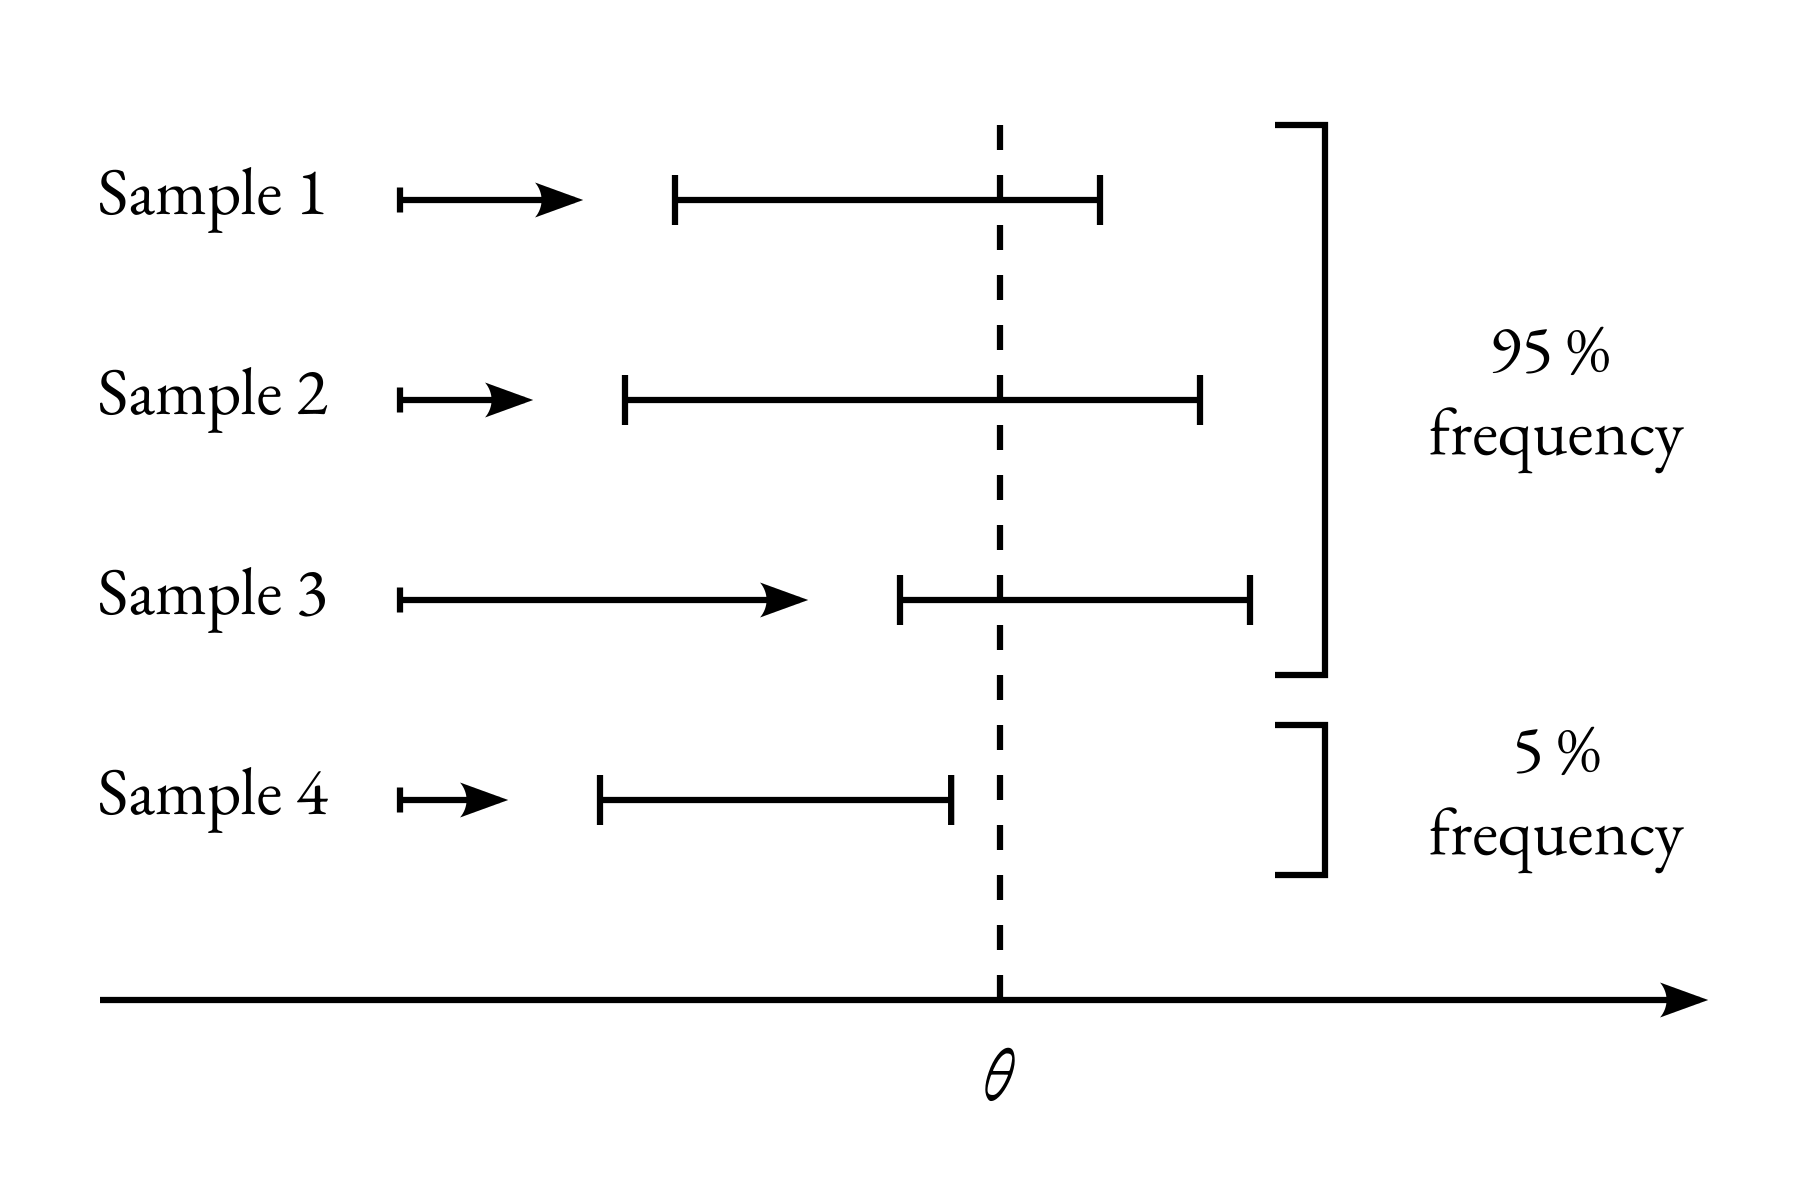
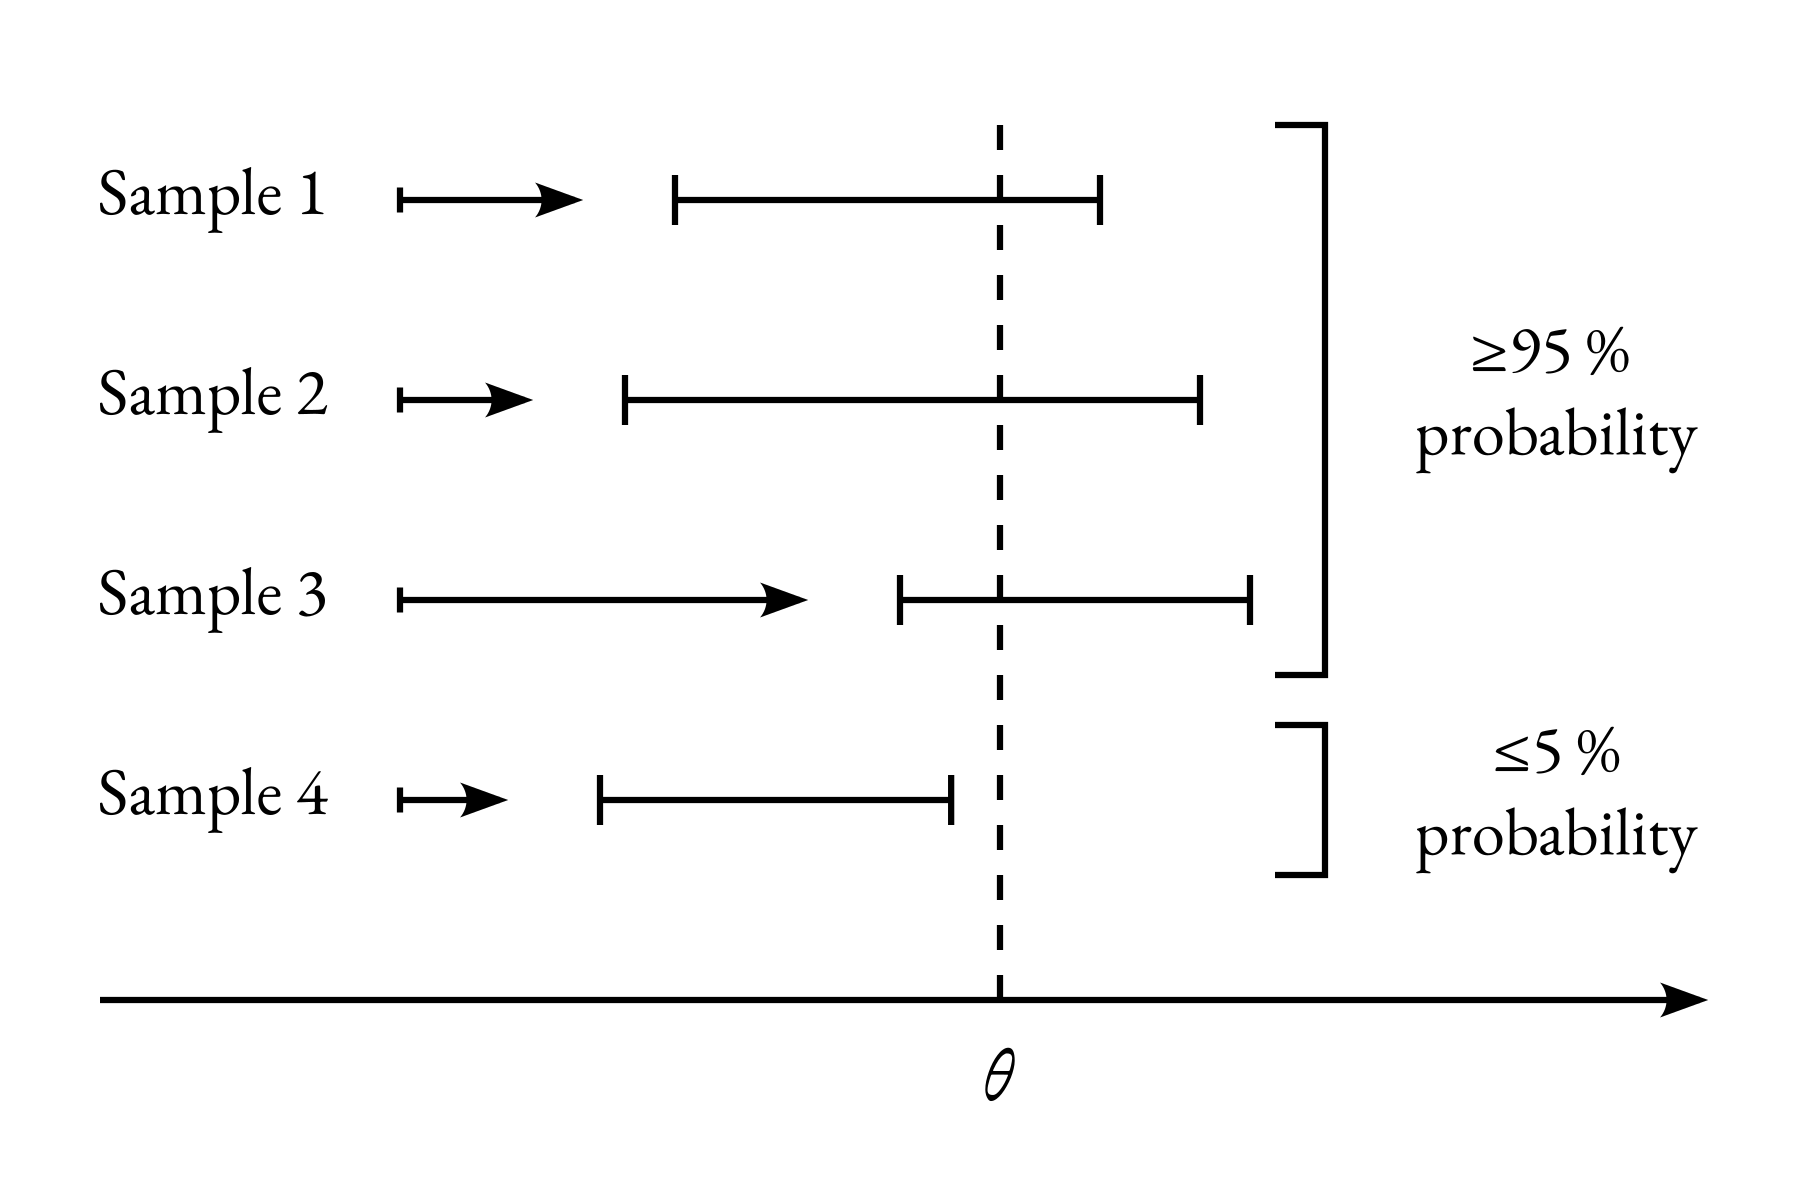
WIP confidence intervals

diff --git a/pages/confidence_intervals/index.md b/pages/confidence_intervals/index.md
@@ -6,53 +6,39 @@ title: Confidence intervals
 
 ## Definition
 
-Let's say we have collected some observations $$x$$, for example a few die rolls:
-$$x = (1, 3, 3, 6)$$. Supposedly, these observation are distributed according to
-some parametric model with unknown parameters $$\theta$$. In the case of the die
-roll, the model could be the categorical distribution, whose parameters are the
-probabilities of each category: $$\theta = (p_1, \ldots, p_6)$$. Based on our
-observations, we would like to establish some region of parameter space within
-which $$\theta$$ most likely lies.
+An $$\alpha$$-confidence interval for a parameter $$\theta$$ may be defined
+concisely as <q>an interval which covers the true value of $$\theta$$ with
+probability $$\geq\alpha$$</q>. However, this definition is ambiguous without
+a description of the precise mechanism implied by the word probability.
 
+The mechanism is illustrated in the diagram below, with $$\alpha = 0.95$$. The
+confidence interval is really an interval-valued function, that maps a sample
+$$(x_1, x_2, \ldots, x_n)$$ drawn from the population of interest, to an
+interval. If another sample is drawn, the associated confidence interval is
+usually different. For some samples, the interval covers the parameter
+$$\theta$$, and for other samples it does not. However, the confidence interval
+function is constructed in such a way that, upon repeated sampling from the
+population, the associated intervals cover the parameter $$\theta$$ with
+probability $$\geq \alpha$$.
 <figure>
 <img src='coverage_diagram.png' alt='Diagram of interval coverage' style='max-width:6in' />
 </figure>
 
-More precisely, we want to define a function $$J$$ that associates to any
-possible observation $$x$$ a region $$J(x)$$ of parameter space such that
-<q>most likely</q> $$\theta \in J(x)$$. To give a precise meaning to <q>most
-likely</q>, we must first define the notion of _coverage_. The coverage
-$$Q(J, \theta)$$ of $$J$$ given $$\theta$$ is the probability, for any given
-$$\theta$$, that the interval $$J$$ covers $$\theta$$:
+Importantly, the coverage probability must be $$\geq \alpha$$  <em> regardless
+of the value of the parameter $$\theta$$ </em>.
 
-\begin{equation}
-    Q(J, \theta) \equiv \sum_{x} p(x|\theta) I(\theta \in J(x))\,.
-\end{equation}
+Of course, one way to ensure coverage $$\geq \alpha$$ is to associate a very
+large interval to each sample. In the extreme, if the associated intervals
+always cover all possible values of the parameter, the coverage will be 1. But
+these would not be very useful intervals. The name of the game is to construct
+intervals with coverage as close as possible to the level $$\alpha$$, without
+going under.
 
-Here $$p(x|\theta)$$ is the probability of each observation $$x$$ given $$\theta$$,
-and $$I(P)$$ is the indicator function, which is 1 if the predicate $$P$$ is true,
-and 0 if it is false.
 
-A variation of $$J$$ that associates smaller regions to each observation yields a
-coverage closer to 0, and conversely, a tweak towards larger regions yields a
-coverage closer to 1. In the extreme, if $$J$$ yields the full parameter space
-for all observations, the coverage is exactly 1. Ideally, we would like a
-function $$J_\gamma$$ that gives the smallest possible regions, while preserving
-at least a  prescribed minimum coverage $$\gamma \in(0, 1)$$. And crucially, we
-would like $$J_\gamma$$ to do so _regardless_ of the true value of $$\theta$$:
-
-\begin{equation}
-    J_\gamma\quad |\quad \forall\, \theta \quad Q(J_\gamma, \theta) \geq \gamma
-\end{equation}
-
-This set of requirements is such a tall order that it is worth repeating: the
-function $$J_\gamma$$ is expected to yield the smallest possible regions of
-parameters space, while maintaning a minimum coverage, regardless of the
-unknown true values of the parameters, just based on the observation $$x$$.
-
-The region of parameter space that such a function associates to a given
-observation $$x$$ is called _confidence interval_ at the confidence level
-$$\gamma$$.
+In some cases, it is possible to construct confidence intervals with coverage
+exactly equal to the confidence level. This is the case for the normal
+population example below, but it is not always possible, and it is never
+possible for distributions with discrete domain.
 
 The minimum coverage reqirement for $$J$$ is so strong, that it often forces
 $$J_\gamma$$ to yield very conservative (large) regions, just to make sure that
@@ -65,24 +51,6 @@ requirement was waived. These kind of weaker confidence intervals are sometimes
 characterized as _approximate_, and the stronger confidence intervals as
 _exact_.
 
-In some cases, depending on the parametric model, it is possible to find a
-function $$J_\gamma$$ that saturates the minimum coverage bound for all values of
-$$\theta$$: $$Q(J_\gamma, \theta) = \gamma\quad \forall\, \theta$$. This is the
-case for observations that follow the normal distribution, but it is not always
-possible, and it is never possible for distributions with discrete domain.
-
-Since there is a lot of confusion about confidence intervals, it is also worth
-emphasizing what a confidence interval is _not_:
-
-1. The sample mean plus or minus some number times the variance of the sample
-mean (unless the sample mean happens to be normally distributed).
-
-1. A couple of quantiles of the sample mean distribution.
-
-1. A couple of quantiles of the bayesian posterior distribution
-$$p(\theta|x)$$. Intervals obtained in this way are sometimes called _credible
-intervals_. They are often used in practice as a replacement for true
-confidence intervals, but they have no guaratees of minimum coverage.
 
 ## Example: normal distribution
 
